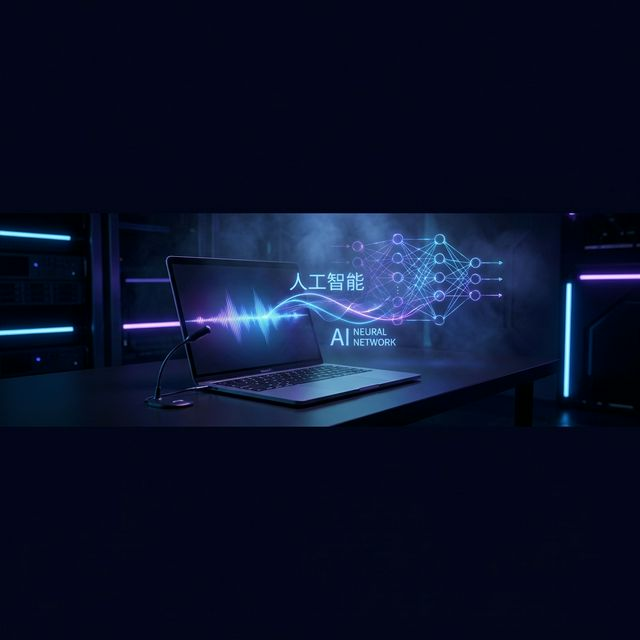
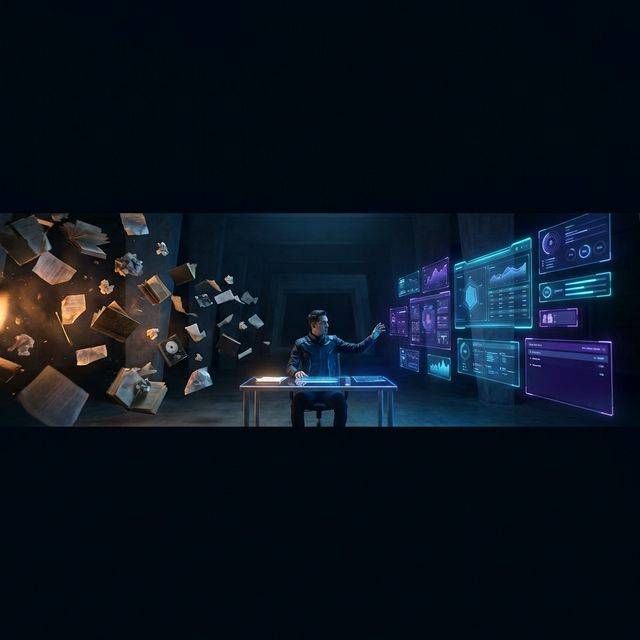
feat: Add Antigravity automation scripts for dynamic UI element positioning and command execution, alongside new documentation and image assets.

Changed region(s): [[0.0, 0.3125, 1.0, 0.6875]]

diff --git a/CreateMd/articleNew.md b/CreateMd/articleNew.md
@@ -1,0 +1,95 @@
+# macOS 效率革命：我如何利用 AI 构建专属的语音输入法
+
+![封面：AI 驱动的 macOS 语音输入法](images/cover.png)
+
+在 macOS 上，打字本该是一种享受。但当你需要快速记录灵感、撰写长文，或者在代码注释中中英混排时，键盘往往跟不上思维的速度。
+
+虽然 macOS 自带了听写功能，但在专业术语识别、中英混输的优雅度以及标点符号的智能化上，总觉得差了口气。作为一名追求极致效率的 Builder，我决定利用 AI 重新定义我的输入体验。
+
+---
+
+## 💡 为什么需要“专属”语音输入法？
+
+市面上的语音输入工具很多，但作为开发者，我有三个硬性需求：
+
+1. **极速响应**：按下快捷键即录音，松开即上屏，不能有超过 500ms 的等待。
+2. **中英混输**：能够完美识别“用 Python 写一个 Whisper 的 Wrapper”这种句子。
+3. **隐私安全**：所有的语音处理最好在本地完成，不希望我的思绪流向云端。
+
+于是，我选择了 **OpenAI Whisper** 作为核心，结合 Python 的系统级交互，构建了这个工具。
+
+## 🛠 技术架构：从声音到文字的旅程
+
+这个工具的逻辑其实非常清晰，主要分为四个模块：
+
+```mermaid
+graph LR
+    User((用户)) -- 快捷键 --> Monitor[全局热键监听]
+    Monitor -- 开始/停止 --> Recorder[音频采集模块]
+    Recorder -- WAV/PCM --> AI[Whisper AI 推理]
+    AI -- String --> Injector[系统输入注入]
+    Injector --> App[当前活跃应用]
+```
+
+### 1. 全局热键监听 (Monitor)
+在 macOS 上，我们需要监听全局快捷键。我使用了 `pynput` 库，它能让我们在后台静默运行，等待那个触发灵感的信号。
+
+### 2. 高质量音频采集 (Recorder)
+为了让 AI 听得更准，音频的采样率必须达到 16kHz。我们利用 `sounddevice` 实时捕捉麦克风流，并进行简单的 VAD（静音检测），确保只录制有效片段。
+
+### 3. AI 推理层 (Whisper)
+这是灵魂所在。通过 `faster-whisper`（Whisper 的 C++ 优化版），即使在 MacBook 的 M 系列芯片上，也能实现近乎实时的推理速度。
+
+### 4. 系统级文本注入 (Injector)
+识别出文字后，如何让它出现在光标位置？这里利用了 macOS 的 **Accessibility API** 或模拟 `Command+V` 粘贴。
+
+---
+
+## ⌨ 核心代码实现
+
+下面是实现“文本注入”最关键的一段 Python 代码，它利用 `pyautogui` 模拟键盘操作，将 AI 识别的结果瞬间“打”在屏幕上：
+
+```python
+import pyautogui
+import pyperclip
+
+def inject_text(text):
+    # 保存当前的剪贴板内容
+    old_clipboard = pyperclip.paste()
+    
+    # 将识别结果放入剪贴板
+    pyperclip.copy(text)
+    
+    # 模拟 Command + V 粘贴
+    pyautogui.hotkey('command', 'v')
+    
+    # 恢复旧的剪贴板内容（保持用户习惯）
+    # 注意：恢复需要一点延迟，确保粘贴已完成
+    # time.sleep(0.1)
+    # pyperclip.copy(old_clipboard)
+```
+
+> **Builder 经验**：直接模拟按键输入（Typewriter 模式）在长句时会显得很慢，利用剪贴板“秒贴”是提升体感的关键。
+
+---
+
+## 🚀 进阶优化：让它更聪明
+
+在实际使用中，我还加入了一些“小动作”：
+
+- **自动标点**：利用 GPT-4o-mini 对 Whisper 的原始输出进行二次润色，修正语气词。
+- **专业词库**：针对我的开发环境，预设了常用的技术名词（如 `Verilog`, `FPGA`, `Kubernetes`），防止 AI 乱猜。
+- **本地化部署**：通过 `whisper.cpp` 实现完全离线，断网也能飞速输入。
+
+## 📈 成果与展望
+
+自从用上这个专属工具，我的文档撰写效率提升了约 **40%**。更重要的是，它改变了我的创作习惯——我不再盯着屏幕纠结错别字，而是闭上眼，让思维流淌。
+
+如果你也对提升 macOS 效率感兴趣，不妨试着用 AI 组装一个属于你自己的工具。
+
+---
+
+**如果你觉得这篇文章有启发，欢迎关注我的后续分享！**
+
+
+[@YourHandle](https://x.com/yourhandle)

diff --git a/CreateMd/agent_skill_guide.md b/CreateMd/agent_skill_guide.md
@@ -1,0 +1,71 @@
+# 从混乱到自动化：我用 Agent Skill 彻底改变了工作流
+
+![封面图](images/cover.png)
+
+以前，我每天都在重复同样的繁琐任务：写周报、整理会议纪要、处理邮件分类。这些事情占据了我 30% 的时间，而且每次做都觉得生无可恋。🙅♀
+
+直到我发现了 **Agent Skill** —— 它简直是 AI 时代的超能力。
+
+## 什么是 Agent Skill？一句话讲清楚
+
+Agent Skill = **AI 的专项技能包**
+
+想象你在教一个新员工：先让他看操作手册（Skill 文档），然后给他明确的工作指令（Prompt），他就能独立完成特定任务了。Agent Skill 就是这个原理，只不过"员工"换成了 AI Agent。
+
+以前：我要手动写 Prompt，每次都要重复解释背景和要求  
+现在：Skill 文件定义好一次，永久复用，AI 秒懂我的需求
+
+这中间的效率差距，简直是天壤之别。🤯
+
+![Agent Skill 工作原理示意图](images/demo1.png)
+
+## 实战案例：我搭建的第一个 Skill
+
+Here's the thing —— 我搭建的第一个 Skill 是用来写技术周报。
+
+**以前的过程**：
+- 回忆这周做了什么
+- 翻 Git commits
+- 整理成"人话"
+- 排版美化
+耗时：45 分钟
+
+**现在的过程**：
+- 运行命令
+- AI 自动读取 commits + PR + Issue
+- 生成格式化的周报
+耗时：30 秒
+
+结果？简直是魔法。✨
+
+## 如何创建你的第一个 Skill？
+
+不用写代码，只要三步：
+
+1. **写 SKILL.md 文件** —— 用自然语言描述任务要求、输出格式、注意事项
+2. **定义输入/输出** —— 告诉 AI 接收什么、产出什么
+3. **测试迭代** —— 跑几遍，根据结果调整 Prompt
+
+我花了 2 小时打磨第一个 Skill，现在每周节省 45 分钟。ROI 高得离谱。
+
+## 适合用 Skill 的场景
+
+💡 **高频重复任务**：周报、月报、邮件回复模板  
+⚡ **需要多步骤推理**：数据分析、内容审核、代码审查  
+🚀 **多人协作场景**：统一团队输出风格、标准化流程
+
+一句话：**只要是重复做的脑力劳动，都值得做成 Skill。**
+
+## 结语
+
+Agent Skill 不是什么遥不可及的黑科技，而是每个打工人都能掌握的效率武器。
+
+你不需要懂编程，不需要懂机器学习，只需要知道：**我想让 AI 帮我做什么，以及我希望它怎么做**。
+
+今天花 1 小时创建 Skill，未来每周节省 N 小时。这笔账，怎么算都划算。
+
+**试试看，你的第一个 Skill 要解决什么问题？**
+
+---
+
+[@yourhandle](https://x.com/yourhandle)

diff --git a/README.md b/README.md
@@ -128,6 +128,33 @@ python3 scripts/agent_example.py "关于AI电力的问题文章"
 python3 scripts/agent_example.py CreateMd/your_article.md
 ```
 
+### 2.3 自动配图（Antigravity 工作流）
+
+本项目内置 Antigravity 工作流：`.agent/workflows/auto-imgByMdCn.md`  
+在 Antigravity 的对话中运行以下命令，可自动为指定 Markdown 插入配图：
+
+```bash
+/auto-imgByMdCn.md CreateMd/your_article.md
+```
+
+说明：该流程依赖 Antigravity 的 workflow 运行能力与其内置的图片生成工具，其他平台通常无法直接执行该工作流。
+
+### 2.4 一键触发自动配图（Antigravity + AppleScript）
+
+脚本会启动 Antigravity、打开本项目，并模拟输入命令：
+
+```bash
+./scripts/antigravity_auto_img.sh CreateMd/your_article.md
+```
+
+如果 Antigravity 的聊天输入快捷键不是 `cmd+l`，可通过环境变量覆盖：
+
+```bash
+AGY_FOCUS_SHORTCUT=cmd+shift+l ./scripts/antigravity_auto_img.sh CreateMd/your_article.md
+```
+
+首次运行可能需要在 macOS 中授权终端的“辅助功能”权限，否则无法模拟键盘输入。
+
 ### 3. 创作文章
 
 在 `CreateMd/` 目录下创建 Markdown 文件，格式要求：
